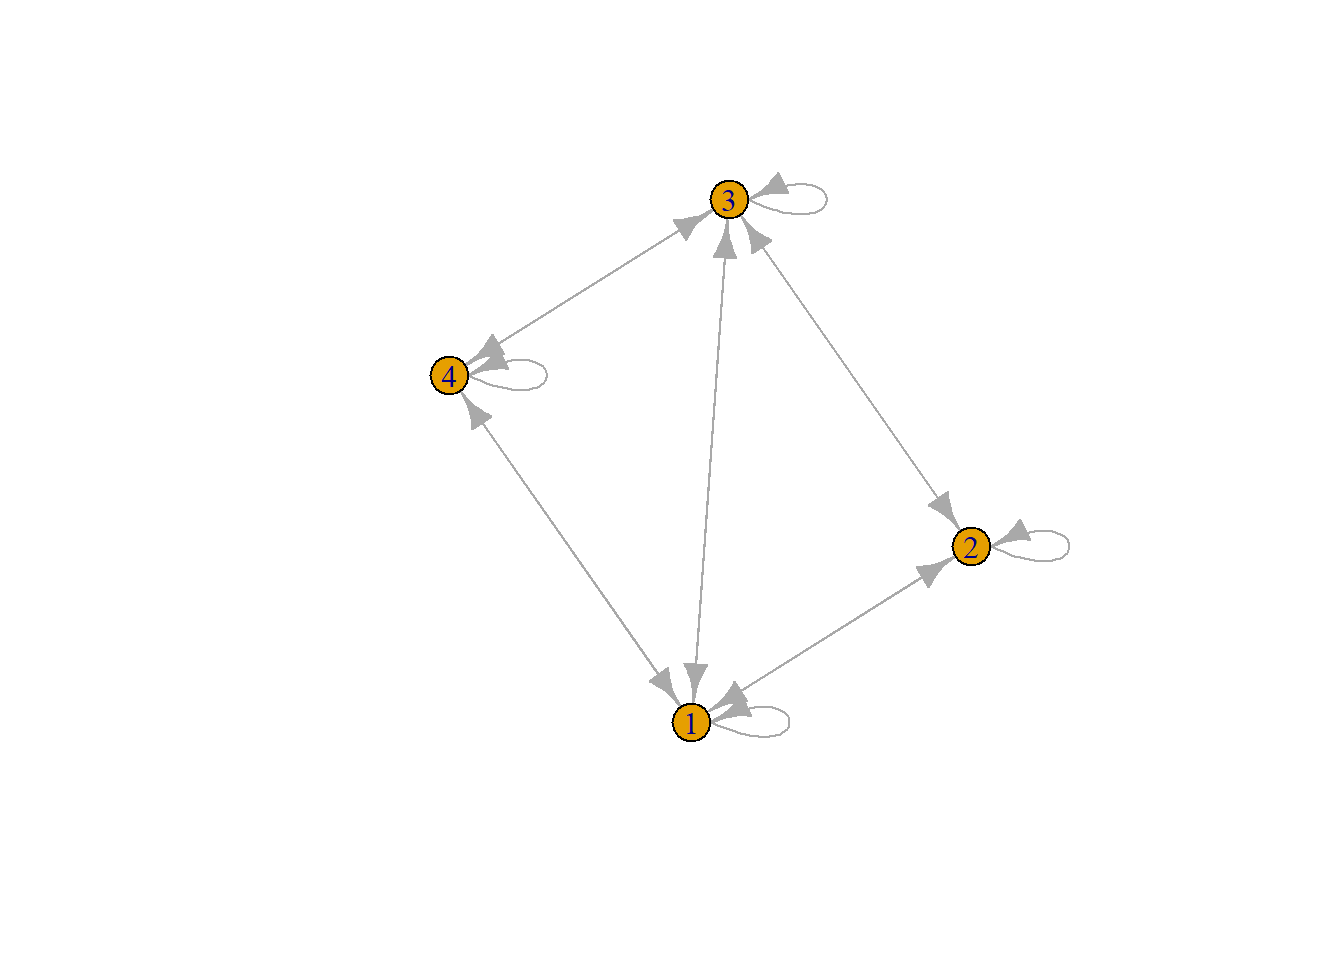
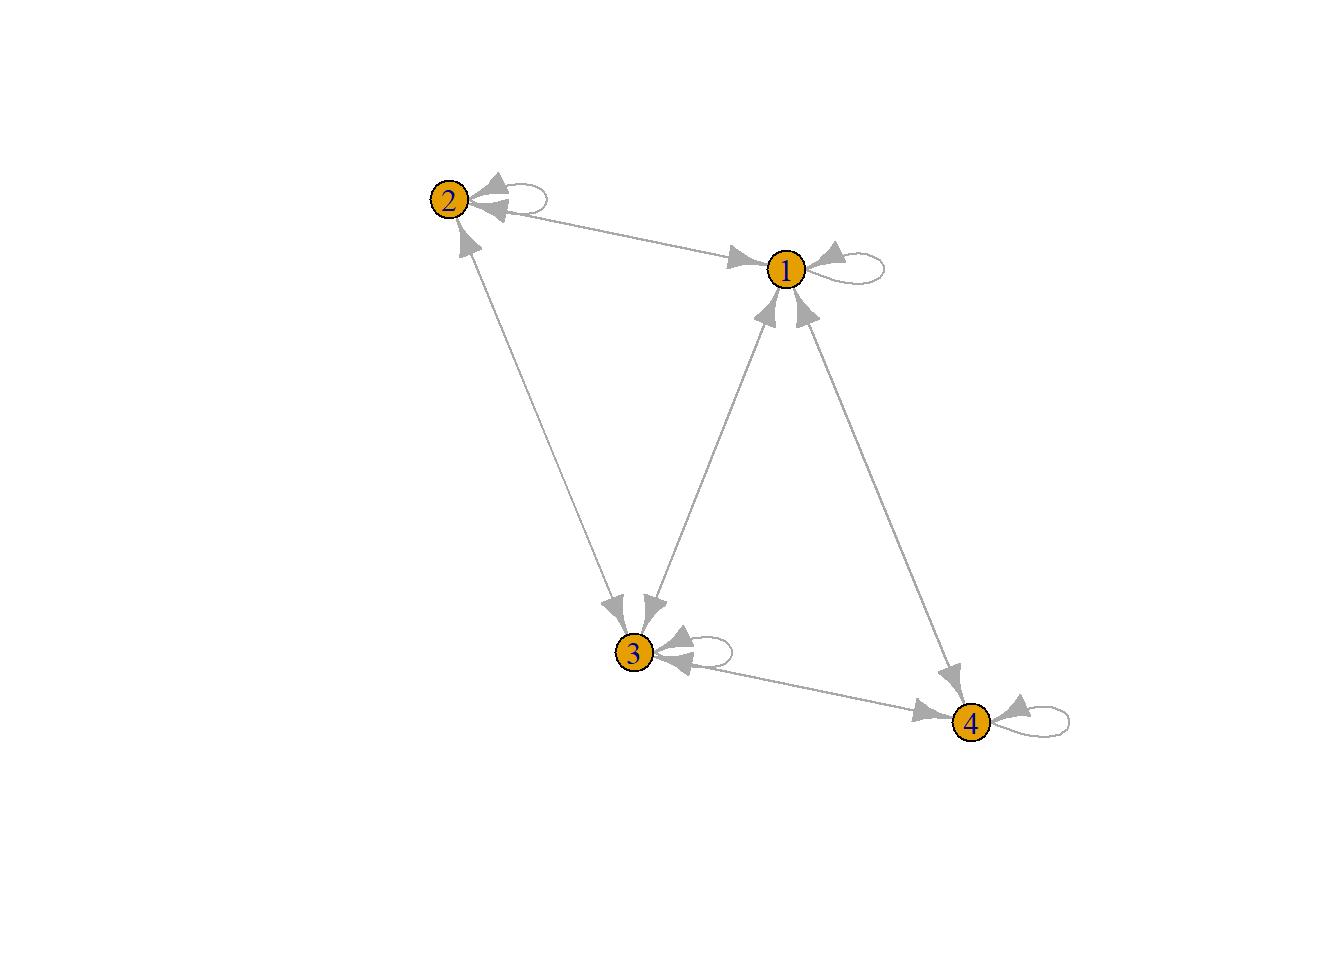
new

diff --git a/docs/index.html b/docs/index.html
@@ -120,7 +120,7 @@ ul.task-list li input[type="checkbox"] {
   <ul>
   <li><a href="#news" id="toc-news" class="nav-link active" data-scroll-target="#news">News</a>
   <ul class="collapse">
-  <li><a href="#nectar-robbing-what-push-birds-to-robb-flowers" id="toc-nectar-robbing-what-push-birds-to-robb-flowers" class="nav-link" data-scroll-target="#nectar-robbing-what-push-birds-to-robb-flowers">🆕 Nectar robbing: what push birds to robb flowers?</a></li>
+  <li><a href="#nectar-robbing-what-push-birds-to-rob-flowers" id="toc-nectar-robbing-what-push-birds-to-rob-flowers" class="nav-link" data-scroll-target="#nectar-robbing-what-push-birds-to-rob-flowers">🆕 Nectar robbing: what push birds to rob flowers?</a></li>
   </ul></li>
   </ul>
 </nav>
@@ -168,8 +168,8 @@ ul.task-list li input[type="checkbox"] {
 
 <section id="news" class="level1">
 <h1>News</h1>
-<section id="nectar-robbing-what-push-birds-to-robb-flowers" class="level3">
-<h3 data-anchor-id="nectar-robbing-what-push-birds-to-robb-flowers">🆕 Nectar robbing: what push birds to robb flowers?</h3>
+<section id="nectar-robbing-what-push-birds-to-rob-flowers" class="level3">
+<h3 data-anchor-id="nectar-robbing-what-push-birds-to-rob-flowers">🆕 Nectar robbing: what push birds to rob flowers?</h3>
 <p>👉<a href="https://doi.org/10.1002/oik.11552" class="uri">https://doi.org/10.1002/oik.11552</a></p>
 <p><img src="images/flower_humm.jpg" class="img-fluid" width="501"><br>
 In tropical pollination networks, flowerpiercers are often seen as robbers and hummingbirds as legitimate pollinators but here we show that it is not so black and white. Both groups of birds pollinate flowers in a legitimate way when flower and bir dmorphologies are compatibel (bill &lt; corolla) and when morphologies are compatible (corolla &gt; bill), both groups shift to robbing, although flowerpiercers shift faster than hummingbirds.</p>
